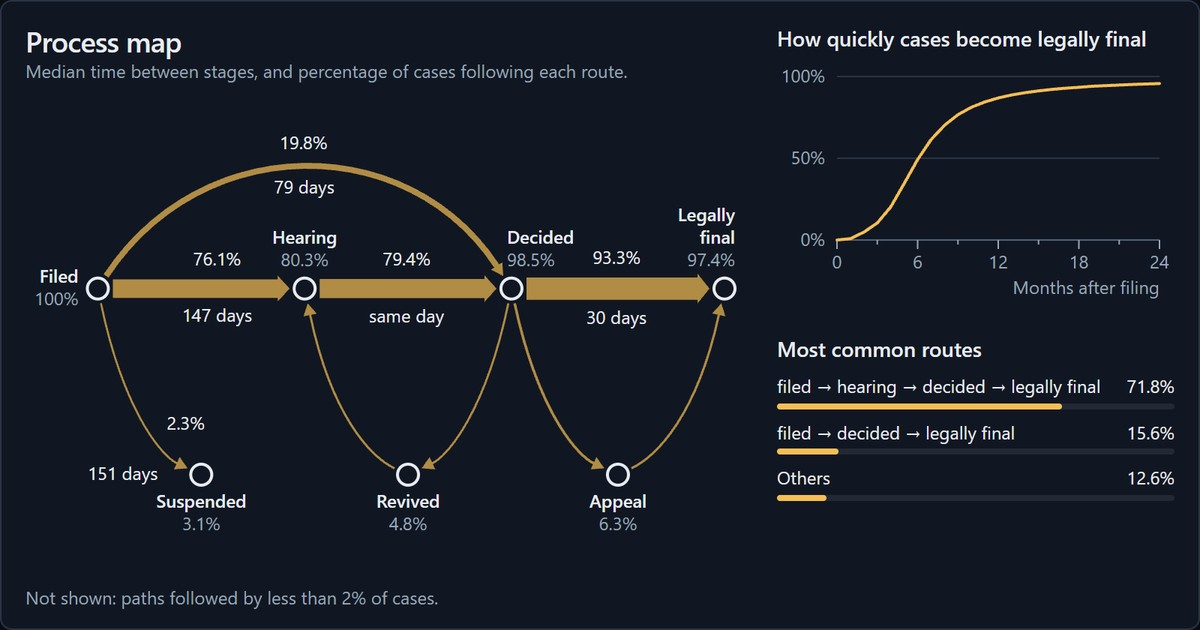
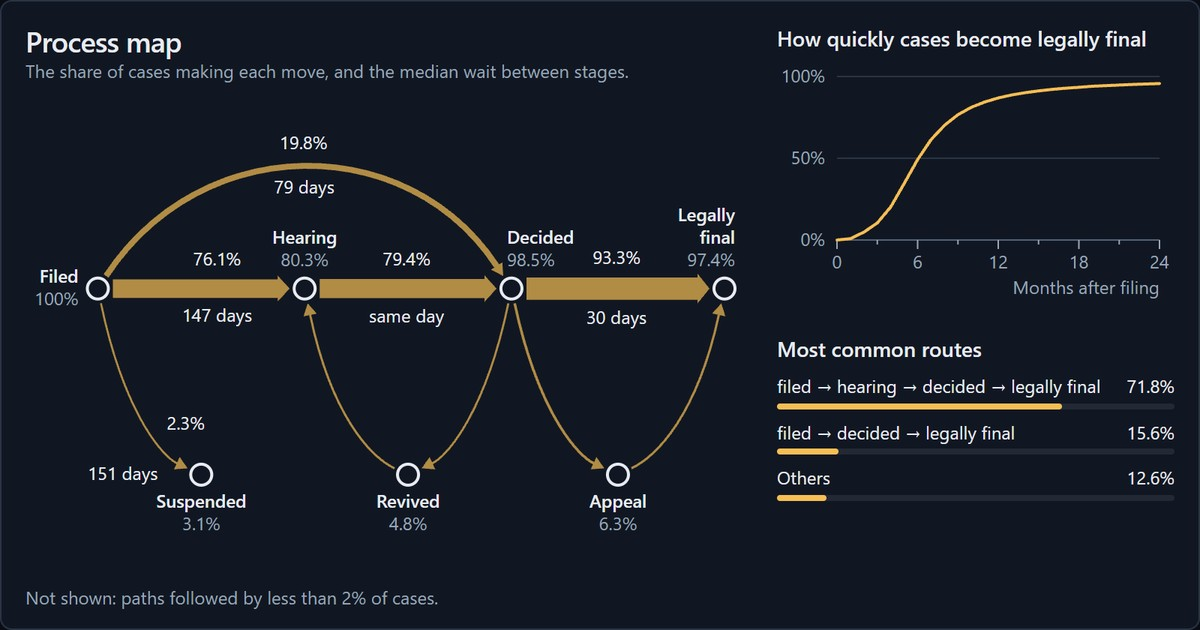
Process map: "The share of cases making each move, and the median wait between stages"

Changed region(s): [[0.0, 0.0905, 0.5242, 0.1508]]

diff --git a/demo/src/views/map.js b/demo/src/views/map.js
@@ -64,7 +64,7 @@ export function createMap(host, data) {
 
   function render({ court }) {
     const journey = data.journey(court);
-    meta.textContent = 'Median time between stages, and percentage of cases following each route.';
+    meta.textContent = 'The share of cases making each move, and the median wait between stages.';
     const list = moves(journey, data.stages);
     const { drawn, rest: left } = split(list);
     describeMoves(list);

diff --git a/docs/plan.md b/docs/plan.md
@@ -908,7 +908,7 @@ Added with Mark on 2026-11-25, after the first four PRs: weighting recent traini
     - **First round.** He found it a mess: arrows overlapping everywhere, a distracting hover, and two graphs that could be one, showing the share of cases that *are* legally final. He chose fewer, labelled arrows, from a sketch; a hover that dims the other arrows and their numbers, with no tooltip; and a graph of legally final only.
     - **Second round.** Straight arrows beside curved ones looked strange. Revived and appeal each went to the bottom of an arc below the row, so that decided → revived → hearing and decided → appeal → legally final curve as filing → decided does over the hearing, and suspended straight under filing. Mark chose appeal below the row rather than above, which keeps appeal → revived drawable. Each label is now split: the share on one side of its arrow and the wait on the other. The hover dims the other stages too. The graph was too tall and thin, so it took half the column, and the commonest routes (his pick of three ideas) the other half.
     - **Third round.** The arc over the hearing was too high: it now rises about a fifth of its span (a third before), and the room goes to the arcs below. Where the map is crowded, as at the bottom right, an arrow's numbers show only on hover, so nobody has to work out which arrow they belong to. Hovering a stage lights all its arrows, and their numbers where they aren't too crowded. Suspended moved to the bottom of an arc between filing and the hearing, like revived and appeal (Mark changed his mind). The key went, as redundant, and the list of moves not drawn became Mark's line, "Not shown: paths followed by less than 2% of cases." The right column starts at the top of the stage, beside the heading, under the title "How quickly cases become legally final" (his pick from the alternatives offered for his "% of cases legally final over time"), with ticks every 3 months on its x axis, longer every 6. The curve was still too tall and thin, so it takes the top half of the column and the routes the bottom half, with room to spare ("If there is extra whitespace that is a good thing"). Hovering the curve now shows the percentage on the y axis, with the vertical line kept (Mark: it was good). "Commonest routes" became "Most common routes": those over 5% of cases, then "Others", last.
-    - **Fourth round.** The tabs swapped: the Process map comes first and the demo opens on it, for all courts; the Forecast tab still opens on 18 C 33/2024 at Jihlava. So the stills `static.webp` and `static-light.webp` show the map too. The map's header no longer names the court, which the menus show; in its place is Mark's line "Median time between stages, and percentage of cases following each route" ("decisions" at first), which he isn't happy with, with alternatives offered. The note under the map now also names, at the 22 courts that have them, the moves of 2% or more left out because they'd cross another stage ("…, and those that would cross another stage: filed → appeal (4.8%) and appeal → hearing (3.9%)" at Prague 2). Hovering makes the lit labels bold, and a lit stage's share as dark as its name; arrows' labels are measured bold when they're placed, so they fit then.
+    - **Fourth round.** The tabs swapped: the Process map comes first and the demo opens on it, for all courts; the Forecast tab still opens on 18 C 33/2024 at Jihlava. So the stills `static.webp` and `static-light.webp` show the map too. The map's header no longer names the court, which the menus show; in its place is "The share of cases making each move, and the median wait between stages", Mark's pick from alternatives offered for his own line (the arrows' shares are of moves, not whole routes). Mark asked why Prague 5's main route (75%, medians 93 + 0 + 30 = 123 days) isn't 75% legally final at 4 months on the curve, which says 44%: 123 days is a typical time, not a limit. The route's cases took a median 126 days in all (middle half 103–172), so only 46% of them were final within 4 months: 35% of all cases, and 9% more from filing → decided → legally final (13.7% of cases, 66% of them within 4 months), which is the curve's 44%. The note under the map now also names, at the 22 courts that have them, the moves of 2% or more left out because they'd cross another stage ("…, and those that would cross another stage: filed → appeal (4.8%) and appeal → hearing (3.9%)" at Prague 2). Hovering makes the lit labels bold, and a lit stage's share as dark as its name; arrows' labels are measured bold when they're placed, so they fit then.
     - **Arrows** are drawn only for moves made by at least 2% of cases (`journey.DRAWN`), and only between stages the layout can join without crossing another (`journey.shape`): straight along the rows, the arc over the hearing, and halves of the arcs below (`map.route`). A move and its reverse sit side by side. That's 9 of the country's 37 moves, and 4 to 12 at a court (median 9). Before the first round, every move of 0.5% or more was drawn, each bowed, so rare long moves crossed the stages: 18 nationally.
     - **The arcs:** the one over the hearing rises 0.22 of its span and the ones below dip half of theirs, up to 1.3 and 1.8 times that where the height allows (2 and 3 times on maps under 400 px wide, which need the room for labels), and the drawing is centred. Each half of an arc below reaches its bottom stage at a slope of about 25° rather than flat, so a line along the bottom row (appeal → revived, drawn at 34 courts) leaves it clear of them.
     - **Moves that would cross a stage** are left out with the rarer ones. Five reach 2% at some court: filed → appeal (13 courts, up to 4.8%), filed → revived (7), suspended → decided (6), appeal → hearing (6) and hearing → appeal (3), so at 22 courts Mark's line "less than 2%" isn't quite all of it; none nationally. Flagged to him. The hidden table still gives screen readers every move, with the middle half of its waits.
